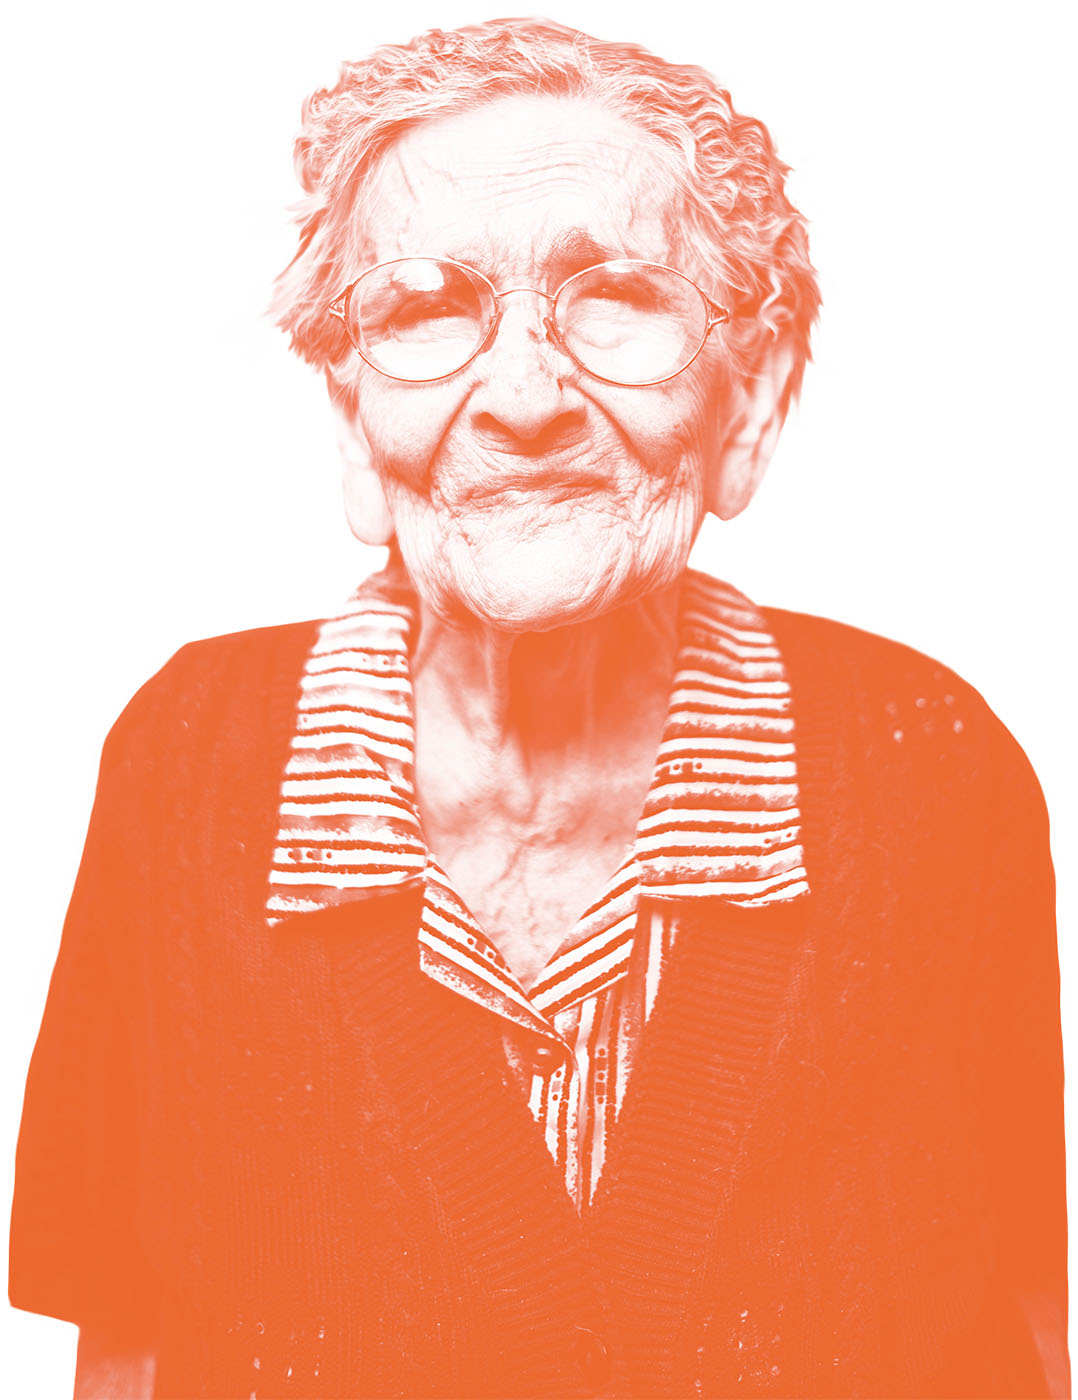
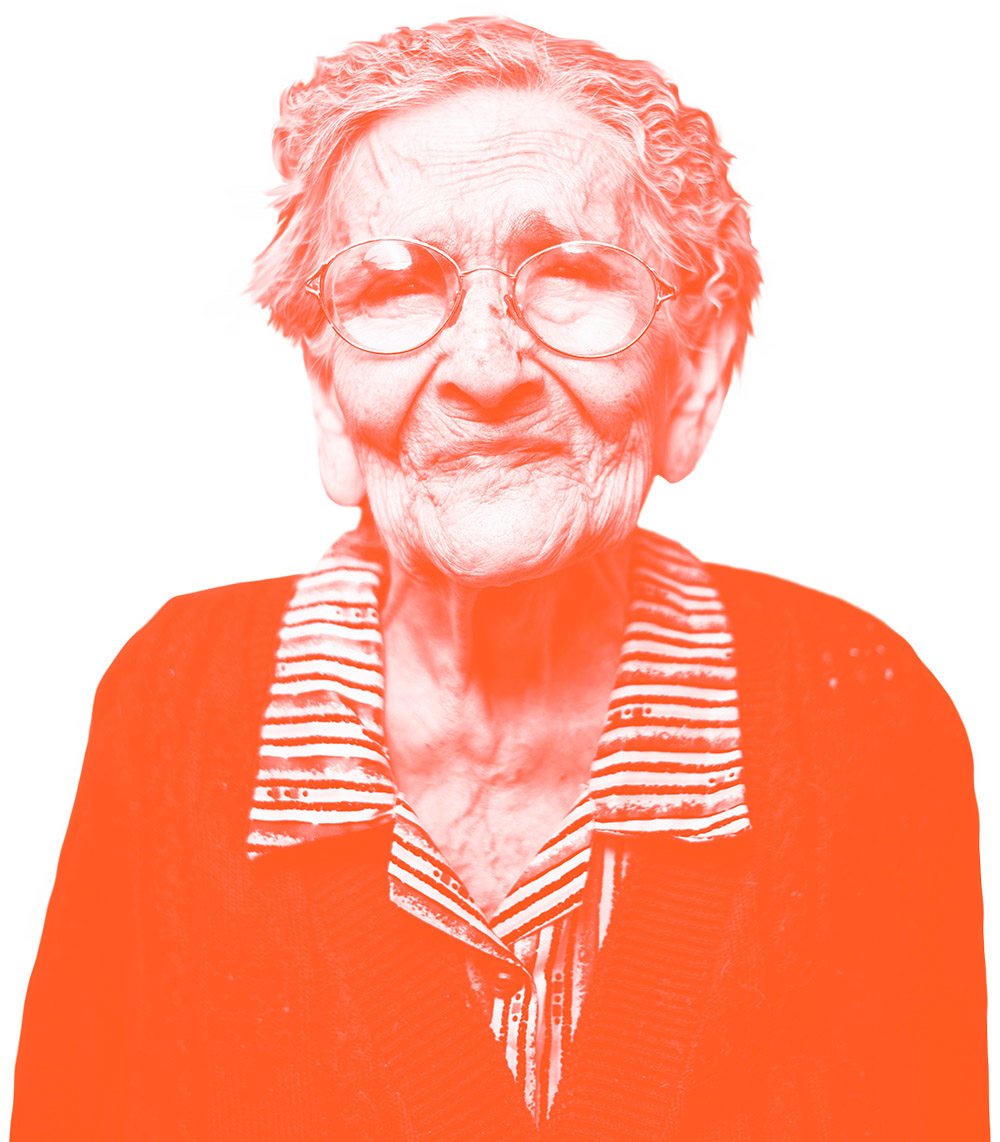
Remake HeroGrandma

diff --git a/components/HeroGrandma.vue b/components/HeroGrandma.vue
@@ -1,16 +1,16 @@
 <template>
   <section class="hero-grandma">
-    <div class="hero-grandma-text">
-      <div class="hero-grandma-text-first" style="color: #EC6830">
-        <div class="line"><span>Volem</span><span>una</span></div>
-        <div class="line"><span>banca</span><span>pública</span></div>
+      <div class="hero-grandma-text-first text-orange">
+        <div class="line"><span>Volem</span></div>
+        <div class="line"><span>una</span><span>banca</span></div>
+        <div class="line"><span>pública</span></div>
       </div>
+      <img src="../assets/images/granny.jpg" alt="">
       <div class="hero-grandma-text-second">
-        <div class="line"><span>que</span><span>fique</span><span>les</span></div>
-        <div class="line"><span>persones</span><span>al</span><span>centre</span></div>
+        <div class="line"><span>que</span><span>pense</span></div>
+        <div class="line"><span>en</span><span>les</span></div>
+        <div class="line"><span>persones</span></div>
       </div>
-    </div>
-    <img src="../assets/images/granny.jpg" alt="">
   </section>
   <section class="proposal">
     asdfasd
@@ -47,7 +47,8 @@
           y: 125,
           duration: 1.5,
           stagger: 0.15,
-          ease: 'Power4.easeOut'
+          ease: 'Power4.easeOut',
+          delay: 1
         }
       );
     },
@@ -57,45 +58,45 @@
 <style lang="scss" scoped>
 .hero-grandma {
   background: var(--white);
-  height: calc(100vh - 100px);
+  max-height: 70vh;
   position: relative;
   overflow: hidden;
   font-family: var(--font-compromis);
+  display: grid;
+  grid-template-columns: 1fr 25vw 1fr;
+  align-items: center;
+  text-align: center;
+  font-size: clamp(2.75rem, 4.5vw, 6rem);
+  letter-spacing: -0.05em;
+  line-height: 1;
+  text-transform: uppercase;
 
-  &-text {
-    height: calc(100vh - 100px);
-    display: grid;
-    grid-template-rows: 1fr auto;
-    text-align: center;
-    font-size: clamp(2rem, 7vw, 7rem);
-    letter-spacing: -0.05em;
-    line-height: 1;
-    padding-top: 1.5rem;
-    padding-bottom: 1.5rem;
-    position: absolute;
-    top: 0;
-    right: 0;
-    left: 0;
-    bottom: 0;
-    text-transform: uppercase;
+  &-text-first {
+    text-align: left;
+    padding-left: 3vw;
+  }
 
-    :deep(.line) {
-      overflow: hidden;
-    }
+  &-text-second {
+    text-align: right;
+    padding-right: 3vw;
+  }
 
-    span {
-      display: inline-block;
-      padding: 0 .1em;
-    }
+  :deep(.line) {
+    overflow: hidden;
+  }
+
+  span {
+    display: inline-block;
+    padding: 0 .1em;
   }
 
   img {
     z-index: 0;
-    height: calc(100vh - 100px);
     object-fit: contain;
     object-position: bottom;
-    padding-top: 12vh;
+    padding-top: 2vh;
     width: 100%;
+    height: 100%;
   }
 
   .text-orange {
@@ -106,5 +107,33 @@
 .proposal {
   background: var(--orange);
   height: 100vh;
+}
+
+@media (max-width: 700px) {
+  .hero-grandma {
+    grid-template-columns: 1fr;
+
+    &-text {
+      &-first, &-second {
+        z-index: 10;
+        text-align: center;
+        position: absolute;
+        left: 0;
+        right: 0;
+      }
+
+      &-first {
+        top: 1rem;
+      }
+
+      &-second {
+        bottom: 1rem;
+      }
+    }
+
+    img {
+      padding-top: 15vh;
+    }
+  }
 }
 </style>

diff --git a/layouts/default.vue b/layouts/default.vue
@@ -77,7 +77,7 @@ const route = useRoute()
   --white: #fff;
   --blue: #00A7DD;
   --yellow: #f5c53e;
-  --orange: #ff6b2a;
+  --orange: #ff5924;
   --black: #222;
   --font-bank: 'Gilroy', sans-serif;
   --font-compromis: 'Fixture', sans-serif;
